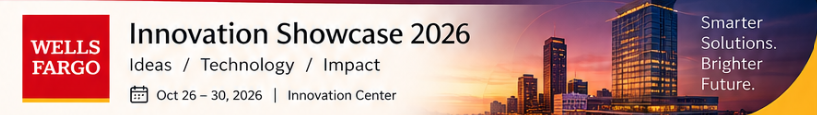
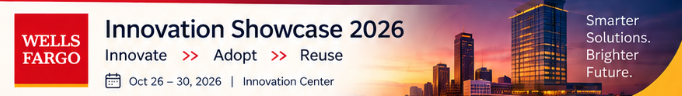
changes

diff --git a/calendar.html b/calendar.html
@@ -4,7 +4,7 @@
 <meta charset="UTF-8" />
 <meta name="viewport" content="width=device-width, initial-scale=1.0, maximum-scale=1.0, user-scalable=no" />
 <meta name="theme-color" content="#c8102e" />
-<meta name="description" content="Innovation Showcase 2026 — Ideas / Technology / Impact. Explore sessions, speakers and build your personal schedule." />
+<meta name="description" content="Innovation Showcase 2026 — Innovate >> Adopt >> Reuse. Explore sessions, speakers and build your personal schedule." />
 <title>Innovation Showcase 2026</title>
 <link rel="preconnect" href="https://fonts.googleapis.com">
 <link rel="preconnect" href="https://fonts.gstatic.com" crossorigin>
@@ -1030,7 +1030,7 @@ footer {
 <div class="app">
   <!-- Exact Static Header Banner -->
   <header class="hero-banner" role="banner">
-    <img src="header-banner.png" alt="Wells Fargo Innovation Showcase 2026 — Ideas / Technology / Impact. Oct 26–30, 2026 | Innovation Center. Smarter Solutions. Brighter Future." class="hero-banner-img" />
+    <img src="header-banner.png" alt="Wells Fargo Innovation Showcase 2026 — Innovate >> Adopt >> Reuse. Oct 26–30, 2026 | Innovation Center. Smarter Solutions. Brighter Future." class="hero-banner-img" />
   </header>
 
   <!-- Day Selector Carousel -->
@@ -1083,7 +1083,7 @@ footer {
   <!-- Footer -->
   <footer>
     <span class="footer-brand">INNOVATION SHOWCASE 2026</span>
-    <span>Ideas that move us forward &nbsp;·&nbsp; October 26–30, 2026</span>
+    <span>Innovate · Adopt · Reuse &nbsp;·&nbsp; October 26–30, 2026</span>
     <a href="qr.html" style="color:var(--red);text-decoration:none;font-weight:700;display:inline-flex;align-items:center;gap:4px;">📱 QR Code Flyer</a>
   </footer>
 </div>
@@ -1395,7 +1395,7 @@ function renderDetail() {
         </svg>
         <div>
           <strong>Location</strong>
-          <p>Innovation Center – Main Stage</p>
+          <p>Virtual</p>
         </div>
       </div>
 
@@ -1533,7 +1533,7 @@ function downloadICS(s) {
   const start = toICSDate(s.day, s.time);
   const end = toICSDate(s.day, s.end);
   const clean = t => t.replace(/\\/g, "\\\\").replace(/,/g, "\\,").replace(/;/g, "\\;").replace(/\n/g, "\\n");
-  const ics = `BEGIN:VCALENDAR\nVERSION:2.0\nPRODID:-//Innovation Showcase 2026//EN\nCALSCALE:GREGORIAN\nBEGIN:VEVENT\nUID:showcase-${s.id}-2026@wells-fargo\nDTSTAMP:20261001T000000Z\nDTSTART:${start}\nDTEND:${end}\nSUMMARY:${clean(s.title)}\nDESCRIPTION:${clean("Speakers: " + s.speakers.join(", ") + (s.partner ? " | " + s.partner : "") + "\\n" + s.description)}\nLOCATION:Innovation Center – Main Stage\nEND:VEVENT\nEND:VCALENDAR`;
+  const ics = `BEGIN:VCALENDAR\nVERSION:2.0\nPRODID:-//Innovation Showcase 2026//EN\nCALSCALE:GREGORIAN\nBEGIN:VEVENT\nUID:showcase-${s.id}-2026@wells-fargo\nDTSTAMP:20261001T000000Z\nDTSTART:${start}\nDTEND:${end}\nSUMMARY:${clean(s.title)}\nDESCRIPTION:${clean("Speakers: " + s.speakers.join(", ") + (s.partner ? " | " + s.partner : "") + "\\n" + s.description)}\nLOCATION:Virtual\nEND:VEVENT\nEND:VCALENDAR`;
   const blob = new Blob([ics], { type: "text/calendar;charset=utf-8" });
   const url = URL.createObjectURL(blob);
   const a = document.createElement("a");
@@ -1681,7 +1681,7 @@ function openSessionModal(id) {
         </svg>
         <div>
           <strong>Location</strong>
-          <p>Innovation Center – Main Stage</p>
+          <p>Virtual</p>
         </div>
       </div>
 
@@ -1816,7 +1816,7 @@ document.querySelectorAll("[data-nav]").forEach(b => {
       $("modalContainer").style.overflow = "auto";
       $("modalTitle").textContent = "Venue Information";
       $("modalBody").innerHTML = `
-        <p style="font-size:14px;color:var(--ink);font-weight:700;margin-bottom:6px;">Innovation Center – Main Stage</p>
+        <p style="font-size:14px;color:var(--ink);font-weight:700;margin-bottom:6px;">Virtual</p>
         <p style="font-size:13px;color:var(--muted);line-height:1.6;">Keynotes and main stage presentations will be hosted in the Innovation Center Auditorium. Breakout discussions and partner exhibits are located in Pavilions A & B on Level 2.</p>
       `;
       $("modalBackdrop").classList.add("open");
@@ -1828,7 +1828,7 @@ document.querySelectorAll("[data-nav]").forEach(b => {
       $("modalContainer").style.overflow = "auto";
       $("modalTitle").textContent = "About Innovation Showcase 2026";
       $("modalBody").innerHTML = `
-        <p style="font-size:14px;color:var(--ink);font-weight:700;margin-bottom:4px;">Ideas / Technology / Impact</p>
+        <p style="font-size:14px;color:var(--ink);font-weight:700;margin-bottom:4px;">Innovate >> Adopt >> Reuse</p>
         <p style="font-size:13px;color:var(--muted);line-height:1.6;margin-bottom:10px;">October 26–30, 2026. Explore sessions, learn from enterprise engineering leaders, and save sessions directly to your personal schedule.</p>
         <p style="font-size:12px;color:var(--muted);">Wells Fargo Enterprise Technology &bull; Event Planning Guide</p>
       `;

diff --git a/index.html b/index.html
@@ -4,7 +4,7 @@
 <meta charset="UTF-8" />
 <meta name="viewport" content="width=device-width, initial-scale=1.0, maximum-scale=1.0, user-scalable=no" />
 <meta name="theme-color" content="#c8102e" />
-<meta name="description" content="Innovation Showcase 2026 — Ideas / Technology / Impact. Explore sessions, speakers and build your personal schedule." />
+<meta name="description" content="Innovation Showcase 2026 — Innovate >> Adopt >> Reuse. Explore sessions, speakers and build your personal schedule." />
 <title>Innovation Showcase 2026</title>
 <link rel="preconnect" href="https://fonts.googleapis.com">
 <link rel="preconnect" href="https://fonts.gstatic.com" crossorigin>
@@ -1030,7 +1030,7 @@ footer {
 <div class="app">
   <!-- Exact Static Header Banner -->
   <header class="hero-banner" role="banner">
-    <img src="header-banner.png" alt="Wells Fargo Innovation Showcase 2026 — Ideas / Technology / Impact. Oct 26–30, 2026 | Innovation Center. Smarter Solutions. Brighter Future." class="hero-banner-img" />
+    <img src="header-banner.png" alt="Wells Fargo Innovation Showcase 2026 — Innovate >> Adopt >> Reuse. Oct 26–30, 2026 | Innovation Center. Smarter Solutions. Brighter Future." class="hero-banner-img" />
   </header>
 
   <!-- Day Selector Carousel -->
@@ -1083,7 +1083,7 @@ footer {
   <!-- Footer -->
   <footer>
     <span class="footer-brand">INNOVATION SHOWCASE 2026</span>
-    <span>Ideas that move us forward &nbsp;·&nbsp; October 26–30, 2026</span>
+    <span>Innovate · Adopt · Reuse &nbsp;·&nbsp; October 26–30, 2026</span>
     <a href="qr.html" style="color:var(--red);text-decoration:none;font-weight:700;display:inline-flex;align-items:center;gap:4px;">📱 QR Code Flyer</a>
   </footer>
 </div>
@@ -1395,7 +1395,7 @@ function renderDetail() {
         </svg>
         <div>
           <strong>Location</strong>
-          <p>Innovation Center – Main Stage</p>
+          <p>Virtual</p>
         </div>
       </div>
 
@@ -1533,7 +1533,7 @@ function downloadICS(s) {
   const start = toICSDate(s.day, s.time);
   const end = toICSDate(s.day, s.end);
   const clean = t => t.replace(/\\/g, "\\\\").replace(/,/g, "\\,").replace(/;/g, "\\;").replace(/\n/g, "\\n");
-  const ics = `BEGIN:VCALENDAR\nVERSION:2.0\nPRODID:-//Innovation Showcase 2026//EN\nCALSCALE:GREGORIAN\nBEGIN:VEVENT\nUID:showcase-${s.id}-2026@wells-fargo\nDTSTAMP:20261001T000000Z\nDTSTART:${start}\nDTEND:${end}\nSUMMARY:${clean(s.title)}\nDESCRIPTION:${clean("Speakers: " + s.speakers.join(", ") + (s.partner ? " | " + s.partner : "") + "\\n" + s.description)}\nLOCATION:Innovation Center – Main Stage\nEND:VEVENT\nEND:VCALENDAR`;
+  const ics = `BEGIN:VCALENDAR\nVERSION:2.0\nPRODID:-//Innovation Showcase 2026//EN\nCALSCALE:GREGORIAN\nBEGIN:VEVENT\nUID:showcase-${s.id}-2026@wells-fargo\nDTSTAMP:20261001T000000Z\nDTSTART:${start}\nDTEND:${end}\nSUMMARY:${clean(s.title)}\nDESCRIPTION:${clean("Speakers: " + s.speakers.join(", ") + (s.partner ? " | " + s.partner : "") + "\\n" + s.description)}\nLOCATION:Virtual\nEND:VEVENT\nEND:VCALENDAR`;
   const blob = new Blob([ics], { type: "text/calendar;charset=utf-8" });
   const url = URL.createObjectURL(blob);
   const a = document.createElement("a");
@@ -1681,7 +1681,7 @@ function openSessionModal(id) {
         </svg>
         <div>
           <strong>Location</strong>
-          <p>Innovation Center – Main Stage</p>
+          <p>Virtual</p>
         </div>
       </div>
 
@@ -1816,7 +1816,7 @@ document.querySelectorAll("[data-nav]").forEach(b => {
       $("modalContainer").style.overflow = "auto";
       $("modalTitle").textContent = "Venue Information";
       $("modalBody").innerHTML = `
-        <p style="font-size:14px;color:var(--ink);font-weight:700;margin-bottom:6px;">Innovation Center – Main Stage</p>
+        <p style="font-size:14px;color:var(--ink);font-weight:700;margin-bottom:6px;">Virtual</p>
         <p style="font-size:13px;color:var(--muted);line-height:1.6;">Keynotes and main stage presentations will be hosted in the Innovation Center Auditorium. Breakout discussions and partner exhibits are located in Pavilions A & B on Level 2.</p>
       `;
       $("modalBackdrop").classList.add("open");
@@ -1828,7 +1828,7 @@ document.querySelectorAll("[data-nav]").forEach(b => {
       $("modalContainer").style.overflow = "auto";
       $("modalTitle").textContent = "About Innovation Showcase 2026";
       $("modalBody").innerHTML = `
-        <p style="font-size:14px;color:var(--ink);font-weight:700;margin-bottom:4px;">Ideas / Technology / Impact</p>
+        <p style="font-size:14px;color:var(--ink);font-weight:700;margin-bottom:4px;">Innovate >> Adopt >> Reuse</p>
         <p style="font-size:13px;color:var(--muted);line-height:1.6;margin-bottom:10px;">October 26–30, 2026. Explore sessions, learn from enterprise engineering leaders, and save sessions directly to your personal schedule.</p>
         <p style="font-size:12px;color:var(--muted);">Wells Fargo Enterprise Technology &bull; Event Planning Guide</p>
       `;

diff --git a/qr.html b/qr.html
@@ -364,7 +364,7 @@ h1 {
     </div>
 
     <div class="footer-note">
-      Innovation Showcase 2026 &bull; Ideas / Technology / Impact<br>
+      Innovation Showcase 2026 &bull; Innovate &raquo; Adopt &raquo; Reuse<br>
       October 26–30, 2026 &bull; Innovation Center
     </div>
   </div>
